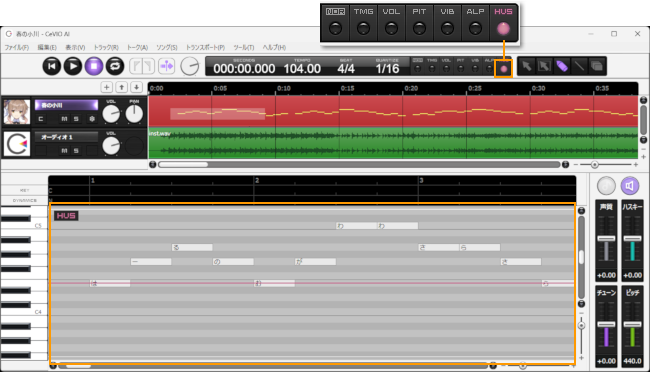
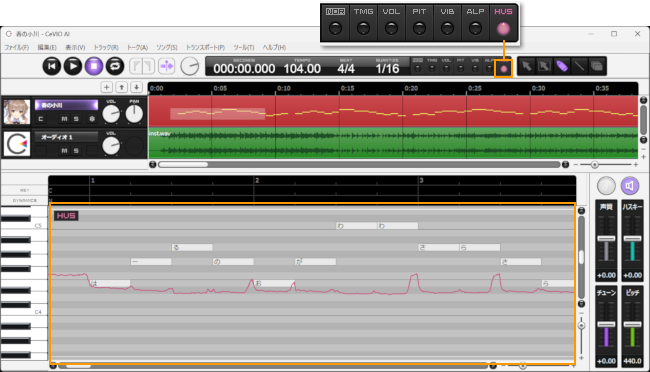
update 2024-02-07

Changed region(s): [[0.0615, 0.7392, 0.8923, 0.7984]]

diff --git a/docs/faq/CeVIO AI ユーザーズガイド ┃ よくある質問／既知の問題.md b/docs/faq/CeVIO AI ユーザーズガイド ┃ よくある質問／既知の問題.md
@@ -46,7 +46,7 @@
  、
  [東北きりたん](../home/kiritan_1_1_0) 
  、
- [小春六花](../home/rikka_1_1_1) 
+ [小春六花](../home/rikka_update) 
  、
  [可不(KAFU)](../home/kafu_update) 
  は各ページからボイスをアップデートしてください。
@@ -96,7 +96,7 @@
  のトラブルシューティングツールで、「CeVIO AI」と全ボイスを一旦、アンインストールしてださい。
    
 
- 上記対応後や、その他起動できない場合は、
+ 上記の対応後や、その他起動できない場合は、
  [こちらのクリーンインストール](../tool2) 
  をお試しください。
    
@@ -361,7 +361,7 @@
  、
  [東北きりたん](../home/kiritan_1_1_0) 
  、
- [小春六花](../home/rikka_1_1_1) 
+ [小春六花](../home/rikka_update) 
  、
  [可不(KAFU)](../home/kafu_update) 
  は各ページからアップデートしてください。

diff --git a/docs/CeVIO AI ユーザーズガイド.md b/docs/CeVIO AI ユーザーズガイド.md
@@ -66,6 +66,11 @@
 **▼ソング関連** 
   
 
+ ・ソングエンジン6.3.6に更新。音質は変化ありません。
+   
+
+  
+
  ・ハスキーを改良。
    
 
@@ -101,7 +106,7 @@
 >  ・声質とハスキーのアンドゥ／リドゥ、波形取得中のパラメータ調整後に波形が更新されなかったのを修正。
 >    
 > 
->  ・波形取得中に再生して停止すると、波形が途中までしか表示されないことがあったのを修正。
+>  ・波形取得中に再生して停止すると、波形が途中から表示されないままになるのを修正。
 >    
 > 
 >  ・波形取得中に「新規プロジェクト」を選ぶと強制終了することがあったのを修正。

diff --git a/docs/songtrack/CeVIO AI ユーザーズガイド ┃ 歌声の調整③（声質）.md b/docs/songtrack/CeVIO AI ユーザーズガイド ┃ 歌声の調整③（声質）.md
@@ -119,6 +119,9 @@
 
 ![](../../image/st05_07_w.png)
 
+ ※既定値（初期値）はボイスバージョン2.0.0以上で写真のように、それ以外は直線で表示されます。
+   
+
 
  色の設定
 ------
